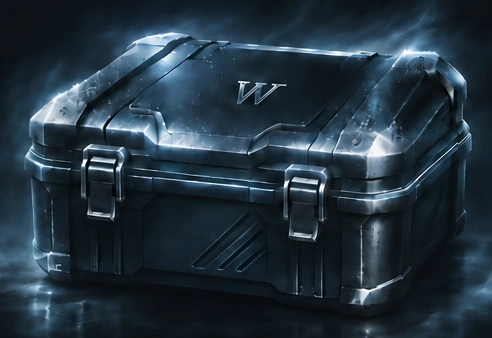
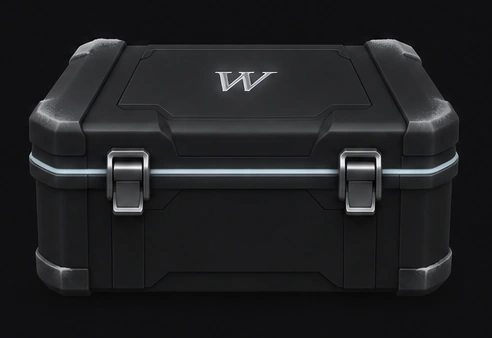
Add minimal case artwork, miniature rooms, gentle motion and Dela Gothic One title

diff --git a/holodos/src/site/index.html b/holodos/src/site/index.html
@@ -8,10 +8,10 @@
 <title>War1ouss — твой холодос</title>
 <link rel="preconnect" href="https://fonts.googleapis.com">
 <link rel="preconnect" href="https://fonts.gstatic.com" crossorigin>
-<link href="https://fonts.googleapis.com/css2?family=Manrope:wght@400;500;600;700;800&display=swap" rel="stylesheet">
+<link href="https://fonts.googleapis.com/css2?family=Dela+Gothic+One&family=Manrope:wght@400;500;600;700;800&display=swap" rel="stylesheet">
 <link rel="preload" href="/assets/hero-main-2026.webp?v=20261114hq2" as="image" type="image/webp" fetchpriority="high">
-<link rel="stylesheet" href="/assets/site.css?v=20261114-cases17">
-<script src="/assets/site.js?v=20261114-cases17" defer></script>
+<link rel="stylesheet" href="/assets/site.css?v=20261114-rooms19">
+<script src="/assets/site.js?v=20261114-rooms19" defer></script>
 </head>
 <body>
 <div class="shell">
@@ -100,7 +100,7 @@
 <section class="view" id="view-cases" data-view="/cases">
  <div class="page-header cases-heading"><p class="eyebrow">КОЛЛЕКЦИЯ / WAR1OUSS</p><h1>Холод с характером<span class="period">.</span></h1><p>Пять кейсов. Пять способов получить свой дроп.</p></div>
  <div class="cases-status"><span class="cases-status-dot"></span><span>Коллекция готовится к запуску. Открытия пока недоступны.</span></div>
- <div class="cases-collection"><article class="collection-case collection-case--donation"><div class="case-artwork"><img src="/assets/case-donation.webp" alt="Донатный: металлический кейс War1ouss с инеем" width="492" height="338" loading="lazy" decoding="async"><span class="case-type">За донат</span></div><div class="case-content"><p class="case-number">01 / PREMIUM</p><div class="case-title-line"><h2>Донатный</h2></div><p class="case-description">Каждое открытие приносит награду. От W-монет до кодов VP и фигурки POP MART.</p><div class="case-cost">400 ₽</div><details class="case-rewards"><summary>Содержимое и шансы <span aria-hidden="true">+</span></summary><div class="case-reward-list"><div><span>500 W</span><strong>38,88%</strong></div><div><span>1 000 W</span><strong>20%</strong></div><div><span>2 000 W</span><strong>8%</strong></div><div><span>5 000 W</span><strong>2%</strong></div><div><span>10 000 W</span><strong>3%</strong></div><div><span>240 VP</span><strong>25%</strong></div><div><span>475 VP</span><strong>0,08%</strong></div><div><span>1 000 VP</span><strong>0,02%</strong></div><div><span>VIP на месяц</span><strong>3%</strong></div><div><span>Фигурка POP MART</span><strong>0,02%</strong></div></div><p class="case-odds-note">Шанс каждого открытия независим. Редкая награда не гарантирована.</p></details><button class="case-open-button" type="button" disabled>Скоро открытие <span aria-hidden="true">↗</span></button></div></article><article class="collection-case collection-case--twitch"><div class="case-artwork"><img src="/assets/case-twitch.webp" alt="Баллы Twitch: металлический кейс War1ouss с инеем" width="492" height="338" loading="lazy" decoding="async"><span class="case-type">За баллы канала</span></div><div class="case-content"><p class="case-number">02 / TWITCH</p><div class="case-title-line"><h2>Баллы Twitch</h2></div><p class="case-description">Обменивай баллы канала на кейс. W-монеты, VIP и коды VP внутри.</p><div class="case-cost">10 000 баллов</div><details class="case-rewards"><summary>Содержимое и шансы <span aria-hidden="true">+</span></summary><div class="case-reward-list"><div><span>Ничего</span><strong>50%</strong></div><div><span>100 W</span><strong>35%</strong></div><div><span>1 000 W</span><strong>10%</strong></div><div><span>2 000 W</span><strong>2%</strong></div><div><span>5 000 W</span><strong>0,5%</strong></div><div><span>240 VP</span><strong>0,1%</strong></div><div><span>475 VP</span><strong>0,05%</strong></div><div><span>VIP на месяц</span><strong>2,35%</strong></div></div><p class="case-odds-note">Шанс каждого открытия независим. Редкая награда не гарантирована.</p></details><button class="case-open-button" type="button" disabled>Скоро открытие <span aria-hidden="true">↗</span></button></div></article><article class="collection-case collection-case--chat"><div class="case-artwork"><img src="/assets/case-chat.webp" alt="За сообщения: металлический кейс War1ouss с инеем" width="492" height="338" loading="lazy" decoding="async"><span class="case-type">За активность</span></div><div class="case-content"><p class="case-number">03 / АКТИВНОСТЬ</p><div class="case-title-line"><h2>За сообщения</h2></div><p class="case-description">Общайся в чате. Прогресс к следующему кейсу накапливается между стримами.</p><div class="case-cost">1 500 сообщений</div><details class="case-rewards"><summary>Содержимое и шансы <span aria-hidden="true">+</span></summary><div class="case-reward-list"><div><span>Ничего</span><strong>40%</strong></div><div><span>100 W</span><strong>45%</strong></div><div><span>1 000 W</span><strong>10%</strong></div><div><span>2 000 W</span><strong>3%</strong></div><div><span>5 000 W</span><strong>0,5%</strong></div><div><span>VIP на месяц</span><strong>1,5%</strong></div></div><p class="case-odds-note">Шанс каждого открытия независим. Редкая награда не гарантирована.</p></details><button class="case-open-button" type="button" disabled>Скоро открытие <span aria-hidden="true">↗</span></button></div></article><article class="collection-case collection-case--vip"><div class="case-artwork"><img src="/assets/case-vip.webp" alt="VIP: металлический кейс War1ouss с инеем" width="492" height="338" loading="lazy" decoding="async"><span class="case-type">Раз в неделю</span></div><div class="case-content"><p class="case-number">04 / EXCLUSIVE</p><div class="case-title-line"><h2>VIP</h2></div><p class="case-description">Особый кейс для обладателей VIP-значка Twitch. Без пустого результата.</p><div class="case-cost">Для VIP канала</div><details class="case-rewards"><summary>Содержимое и шансы <span aria-hidden="true">+</span></summary><div class="case-reward-list"><div><span>100 W</span><strong>69,95%</strong></div><div><span>1 000 W</span><strong>23%</strong></div><div><span>2 000 W</span><strong>6%</strong></div><div><span>5 000 W</span><strong>0,9%</strong></div><div><span>240 VP</span><strong>0,08%</strong></div><div><span>475 VP</span><strong>0,05%</strong></div><div><span>Фигурка POP MART</span><strong>0,02%</strong></div></div><p class="case-odds-note">Шанс каждого открытия независим. Редкая награда не гарантирована.</p></details><button class="case-open-button" type="button" disabled>Скоро открытие <span aria-hidden="true">↗</span></button></div></article><article class="collection-case collection-case--coins"><div class="case-artwork"><img src="/assets/case-coins.webp" alt="За W-монеты: металлический кейс War1ouss с инеем" width="492" height="338" loading="lazy" decoding="async"><span class="case-type">Скоро</span></div><div class="case-content"><p class="case-number">05 / W COLLECTION</p><div class="case-title-line"><h2>За W-монеты</h2></div><p class="case-description">Новый способ использовать заработанные W. Стоимость и награды ещё настраиваются.</p><div class="case-cost">За W-монеты</div><div class="case-pending">Содержимое скоро появится</div><button class="case-open-button" type="button" disabled>Скоро открытие <span aria-hidden="true">↗</span></button></div></article></div><div class="cases-footnote"><span>W / WAR1OUSS</span><p>Условия и награды показаны для предварительного просмотра. Подключение выдачи кейсов — следующий этап.</p></div></section>
+ <div class="cases-collection"><article class="collection-case collection-case--donation"><div class="case-artwork"><img src="/assets/case-donation.webp?v=18" alt="Донатный: металлический кейс War1ouss с инеем" width="492" height="338" loading="lazy" decoding="async"><span class="case-type">За донат</span></div><div class="case-content"><p class="case-number">01 / PREMIUM</p><div class="case-title-line"><h2>Донатный</h2></div><p class="case-description">Каждое открытие приносит награду. От W-монет до кодов VP и фигурки POP MART.</p><div class="case-cost">400 ₽</div><details class="case-rewards"><summary>Содержимое и шансы <span aria-hidden="true">+</span></summary><div class="case-reward-list"><div><span>500 W</span><strong>38,88%</strong></div><div><span>1 000 W</span><strong>20%</strong></div><div><span>2 000 W</span><strong>8%</strong></div><div><span>5 000 W</span><strong>2%</strong></div><div><span>10 000 W</span><strong>3%</strong></div><div><span>240 VP</span><strong>25%</strong></div><div><span>475 VP</span><strong>0,08%</strong></div><div><span>1 000 VP</span><strong>0,02%</strong></div><div><span>VIP на месяц</span><strong>3%</strong></div><div><span>Фигурка POP MART</span><strong>0,02%</strong></div></div><p class="case-odds-note">Шанс каждого открытия независим. Редкая награда не гарантирована.</p></details><button class="case-open-button" type="button" disabled>Скоро открытие <span aria-hidden="true">↗</span></button></div></article><article class="collection-case collection-case--twitch"><div class="case-artwork"><img src="/assets/case-twitch.webp?v=18" alt="Баллы Twitch: металлический кейс War1ouss с инеем" width="492" height="338" loading="lazy" decoding="async"><span class="case-type">За баллы канала</span></div><div class="case-content"><p class="case-number">02 / TWITCH</p><div class="case-title-line"><h2>Баллы Twitch</h2></div><p class="case-description">Обменивай баллы канала на кейс. W-монеты, VIP и коды VP внутри.</p><div class="case-cost">10 000 баллов</div><details class="case-rewards"><summary>Содержимое и шансы <span aria-hidden="true">+</span></summary><div class="case-reward-list"><div><span>Ничего</span><strong>50%</strong></div><div><span>100 W</span><strong>35%</strong></div><div><span>1 000 W</span><strong>10%</strong></div><div><span>2 000 W</span><strong>2%</strong></div><div><span>5 000 W</span><strong>0,5%</strong></div><div><span>240 VP</span><strong>0,1%</strong></div><div><span>475 VP</span><strong>0,05%</strong></div><div><span>VIP на месяц</span><strong>2,35%</strong></div></div><p class="case-odds-note">Шанс каждого открытия независим. Редкая награда не гарантирована.</p></details><button class="case-open-button" type="button" disabled>Скоро открытие <span aria-hidden="true">↗</span></button></div></article><article class="collection-case collection-case--chat"><div class="case-artwork"><img src="/assets/case-chat.webp?v=18" alt="За сообщения: металлический кейс War1ouss с инеем" width="492" height="338" loading="lazy" decoding="async"><span class="case-type">За активность</span></div><div class="case-content"><p class="case-number">03 / АКТИВНОСТЬ</p><div class="case-title-line"><h2>За сообщения</h2></div><p class="case-description">Общайся в чате. Прогресс к следующему кейсу накапливается между стримами.</p><div class="case-cost">1 500 сообщений</div><details class="case-rewards"><summary>Содержимое и шансы <span aria-hidden="true">+</span></summary><div class="case-reward-list"><div><span>Ничего</span><strong>40%</strong></div><div><span>100 W</span><strong>45%</strong></div><div><span>1 000 W</span><strong>10%</strong></div><div><span>2 000 W</span><strong>3%</strong></div><div><span>5 000 W</span><strong>0,5%</strong></div><div><span>VIP на месяц</span><strong>1,5%</strong></div></div><p class="case-odds-note">Шанс каждого открытия независим. Редкая награда не гарантирована.</p></details><button class="case-open-button" type="button" disabled>Скоро открытие <span aria-hidden="true">↗</span></button></div></article><article class="collection-case collection-case--vip"><div class="case-artwork"><img src="/assets/case-vip.webp?v=18" alt="VIP: металлический кейс War1ouss с инеем" width="492" height="338" loading="lazy" decoding="async"><span class="case-type">Раз в неделю</span></div><div class="case-content"><p class="case-number">04 / EXCLUSIVE</p><div class="case-title-line"><h2>VIP</h2></div><p class="case-description">Особый кейс для обладателей VIP-значка Twitch. Без пустого результата.</p><div class="case-cost">Для VIP канала</div><details class="case-rewards"><summary>Содержимое и шансы <span aria-hidden="true">+</span></summary><div class="case-reward-list"><div><span>100 W</span><strong>69,95%</strong></div><div><span>1 000 W</span><strong>23%</strong></div><div><span>2 000 W</span><strong>6%</strong></div><div><span>5 000 W</span><strong>0,9%</strong></div><div><span>240 VP</span><strong>0,08%</strong></div><div><span>475 VP</span><strong>0,05%</strong></div><div><span>Фигурка POP MART</span><strong>0,02%</strong></div></div><p class="case-odds-note">Шанс каждого открытия независим. Редкая награда не гарантирована.</p></details><button class="case-open-button" type="button" disabled>Скоро открытие <span aria-hidden="true">↗</span></button></div></article><article class="collection-case collection-case--coins"><div class="case-artwork"><img src="/assets/case-coins.webp?v=18" alt="За W-монеты: металлический кейс War1ouss с инеем" width="492" height="338" loading="lazy" decoding="async"><span class="case-type">Скоро</span></div><div class="case-content"><p class="case-number">05 / W COLLECTION</p><div class="case-title-line"><h2>За W-монеты</h2></div><p class="case-description">Новый способ использовать заработанные W. Стоимость и награды ещё настраиваются.</p><div class="case-cost">За W-монеты</div><div class="case-pending">Содержимое скоро появится</div><button class="case-open-button" type="button" disabled>Скоро открытие <span aria-hidden="true">↗</span></button></div></article></div><div class="cases-footnote"><span>W / WAR1OUSS</span><p>Условия и награды показаны для предварительного просмотра. Подключение выдачи кейсов — следующий этап.</p></div></section>
 
 <section class="view" id="view-duels" data-view="/duels">
   <div class="page-header"><p class="eyebrow">PVP / ДУЭЛИ</p><h1>Брось вызов<span class="period">.</span></h1><p>Дуэли на W-монеты с теми же правилами, что и в чате. Перерыв после завершения — 2 минуты 30 секунд.</p></div>

diff --git a/holodos/src/site/site.css b/holodos/src/site/site.css
@@ -1223,3 +1223,19 @@ body.inner-page .view.active{animation:slideIn .25s ease both}
 @media(max-width:1050px){.cases-collection{grid-template-columns:repeat(2,minmax(0,1fr))}}
 @media(max-width:620px){.cases-collection{grid-template-columns:1fr;gap:18px}.case-artwork{aspect-ratio:492/300}.case-description{min-height:0}.cases-status{line-height:1.7;align-items:baseline}.cases-footnote{align-items:flex-start;flex-direction:column;gap:12px}.case-content{padding:8px 22px 22px}}
 @media(prefers-reduced-motion:reduce){.collection-case{transition:none}.collection-case:hover{transform:none}}
+
+/* User-selected display font for the Holodos page title. */
+#view-casino .page-header h1{font-family:'Dela Gothic One',sans-serif;font-weight:400;letter-spacing:-.035em;font-size:clamp(30px,4.2vw,56px);line-height:1.2}
+@media(max-width:540px){#view-casino .page-header h1{font-size:clamp(27px,7.5vw,40px);letter-spacing:-.04em}}
+
+/* A quiet miniature room behind each approved case, without moving the card layout. */
+.case-artwork{isolation:isolate;perspective:700px;background:radial-gradient(ellipse at 50% 82%,color-mix(in srgb,var(--case-accent) 12%,transparent),transparent 60%),linear-gradient(90deg,#0a0c10,#171a20 50%,#0b0d11)}
+.case-artwork::before{content:"";position:absolute;z-index:0;pointer-events:none;left:-22%;right:-22%;height:47%;bottom:-9%;transform:rotateX(61deg);transform-origin:center bottom;background:repeating-linear-gradient(90deg,transparent 0 54px,#dce8ff0a 55px 56px),repeating-linear-gradient(0deg,transparent 0 32px,#dce8ff09 33px 34px),radial-gradient(ellipse at 50% 30%,color-mix(in srgb,var(--case-accent) 17%,#11151b),#090b10 72%);border-top:1px solid #c6d4e31a;box-shadow:0 -16px 45px #0009}
+.case-artwork::after{content:"";position:absolute;inset:13% 10% 18%;z-index:0;pointer-events:none;border:1px solid #b4c7df0c;border-bottom-color:#c8d6e523;border-radius:7px 7px 0 0;background:linear-gradient(90deg,#0008,transparent 24%,transparent 76%,#0008),linear-gradient(180deg,#ffffff03,transparent 65%);box-shadow:inset 0 14px 26px #0005,0 0 40px #0004}
+.case-artwork img{position:relative;z-index:1;mix-blend-mode:screen;animation:caseQuietFloat 7s ease-in-out infinite;transform-origin:50% 65%;will-change:transform}
+.collection-case:nth-child(2) .case-artwork img{animation-delay:-1.4s}.collection-case:nth-child(3) .case-artwork img{animation-delay:-2.8s}.collection-case:nth-child(4) .case-artwork img{animation-delay:-4.2s}.collection-case:nth-child(5) .case-artwork img{animation-delay:-5.6s}
+.collection-case--donation .case-artwork{background:radial-gradient(ellipse at 50% 65%,#c1a6f132,transparent 65%),linear-gradient(90deg,#0a0c10,#1a1722 50%,#0b0d11)}
+.collection-case--donation .case-artwork img{animation:caseQuietFloat 7s ease-in-out infinite,donationCaseGlow 4.8s ease-in-out infinite;filter:drop-shadow(0 0 9px #c5adf14d)}
+@keyframes caseQuietFloat{0%,100%{transform:translateY(2px) rotate(-.35deg)}50%{transform:translateY(-5px) rotate(.35deg)}}
+@keyframes donationCaseGlow{0%,100%{filter:drop-shadow(0 0 6px #c5adf138) brightness(1.02)}50%{filter:drop-shadow(0 0 14px #c5adf16b) brightness(1.1)}}
+@media(prefers-reduced-motion:reduce){.case-artwork img,.collection-case--donation .case-artwork img{animation:none;transform:none;will-change:auto}}
